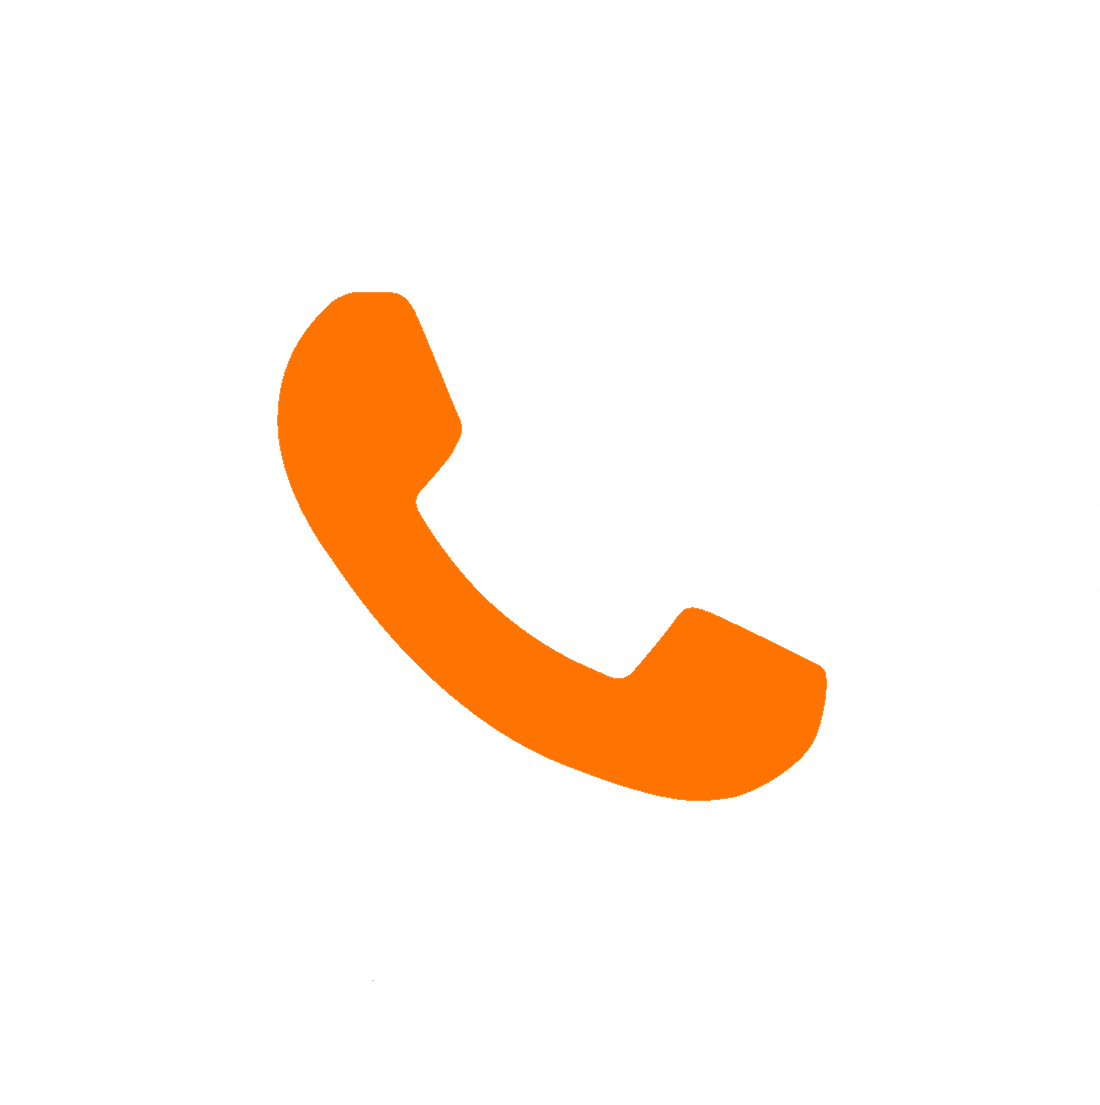
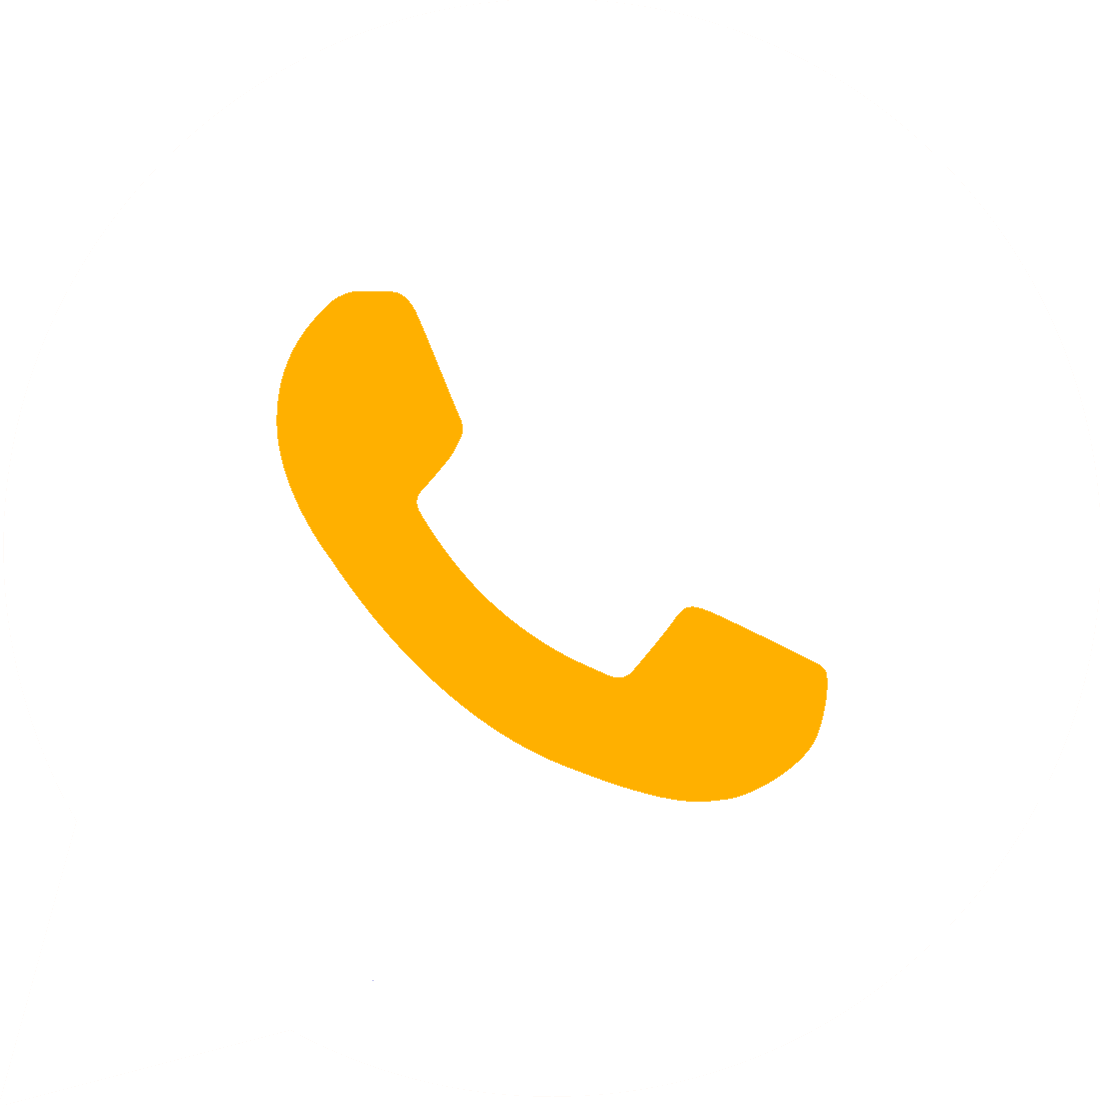
atualização

Changed region(s): [[0.2473, 0.2462, 0.7727, 0.7385]]

diff --git a/receituario-css/oculos1.css b/receituario-css/oculos1.css
@@ -142,26 +142,26 @@ main .quantidade input {
 
 #btn-1 {
     border-radius: 2px;
-    border: 1px solid #ff7300;
-    background-color: rgb(255, 115, 0, .3);
+    border: 1px solid #FFB000;
+    background-color: rgb(255, 174, 0, .3);
     font-weight: bold;
-    color: #ff7300;
+    color: #FFB000;
 }
 
 #btn-1:hover {
-    background-color: rgb(255, 115, 0, .2);
+    background-color: rgb(255, 174, 0, .1);
 }
 
 #btn-2 {
     border-radius: 2px;
-    border: 1px solid #ff7300;
-    background-color: #ff7300;
+    border: 1px solid #FFB000;
+    background-color: #FFB000;
     font-weight: bold;
     color: #fff;
 }
 
 #btn-2:hover {
-    background-color: rgb(255, 115, 0, .8);
+    background-color: rgb(255, 176, 0, .8);
 }
 
 
@@ -171,7 +171,7 @@ footer {
     color: #fff;
     display: flex;
     justify-content: center;
-    background-color: #ff7300;
+    background-color: #FFB000;
 }
 .redes-logo {
     padding: 20px 10px;
@@ -217,14 +217,12 @@ footer h2, h3 {
     font-size: 12px;
 }
 
-@media screen and (max-width: 500px) {
-    .pagInd {
-        margin: 20% auto;
-        padding: 10% 0;
-    }
-}
-
 @media screen and (max-width: 350px) {
+    header {
+        width: 100%;
+        position: fixed;
+        top: 0;
+    }
     .cabeca input {
         height: 24px;
         margin-left: 5%;
@@ -246,6 +244,13 @@ footer h2, h3 {
     .cabeca img {
         height: 35px;
     }
+    .pagInd {
+        position: absolute;
+        top: 49%;
+        left: 0;
+        right: 0;
+        transform: translateY(-50%);
+    }
     .pagInd img {
         height: 80px;
         margin: 30px;
@@ -264,6 +269,101 @@ footer h2, h3 {
         width: 100px;
         height: 40px;
         margin: 20px 5px;
+    }
+    footer {
+        position: fixed;
+        bottom: 0;
+        width: 100%;
+    }
+    footer h1 {
+        font-size: 15px;
+    }
+    footer h2 {
+        font-size: 10px;
+    }
+    .redes-logo {
+        padding: 20px 10px;
+    }
+    .redes-logo h1 {
+        font-size: 10px;
+    }
+    .redes-logo .logo img {
+        height: 25px;
+        padding: 0 5px;
+        margin: 10px 0;
+    }
+    .endereco {
+        padding: 20px 10px;
+    }
+    .endereco h2 {
+        font-size: 10px;
+        margin-bottom: 10px;
+    }
+    .endereco h3 {
+        font-size: 8px;
+    }
+}
+
+@media screen and (max-width: 450px) {
+    header {
+        width: 100%;
+        position: fixed;
+        top: 0;
+    }
+    .cabeca input {
+        height: 24px;
+        margin-left: 5%;
+    }
+    #lupa {
+        cursor: pointer;
+        height: 10px;
+        position: relative;
+        right: 40px;
+    }
+    nav {
+        padding: 8px 0;
+    }
+    nav li a {
+        font-size: 8px;
+        padding: 0 12px;
+        margin: 0;
+    }
+    .cabeca img {
+        height: 35px;
+    }
+    .pagInd {
+        position: absolute;
+        top: 49%;
+        left: 0;
+        right: 0;
+        transform: translateY(-50%);
+    }
+    .pagInd img {
+        height: 80px;
+        margin: 30px;
+    }
+    main > h1 {
+        text-align: center;
+        width: 90%;
+        margin: 0 auto;
+        font-size: 14px;
+    }
+    .preco > p {
+        font-size: 12px;
+    }
+    .preco > h2 {
+        font-size: 18px;
+    }
+    .cmpr button {
+        font-size: 10px;
+        width: 100px;
+        height: 40px;
+        margin: 20px 5px;
+    }
+    footer {
+        position: fixed;
+        bottom: 0;
+        width: 100%;
     }
     footer h1 {
         font-size: 15px;

diff --git a/main.css b/main.css
@@ -144,7 +144,7 @@ footer {
     display: flex;
     margin-top: 40px;
     justify-content: center;
-    background-color: #ff7300;
+    background-color: #FFB000;
 }
 .redes-logo {
     padding: 20px 10px;
